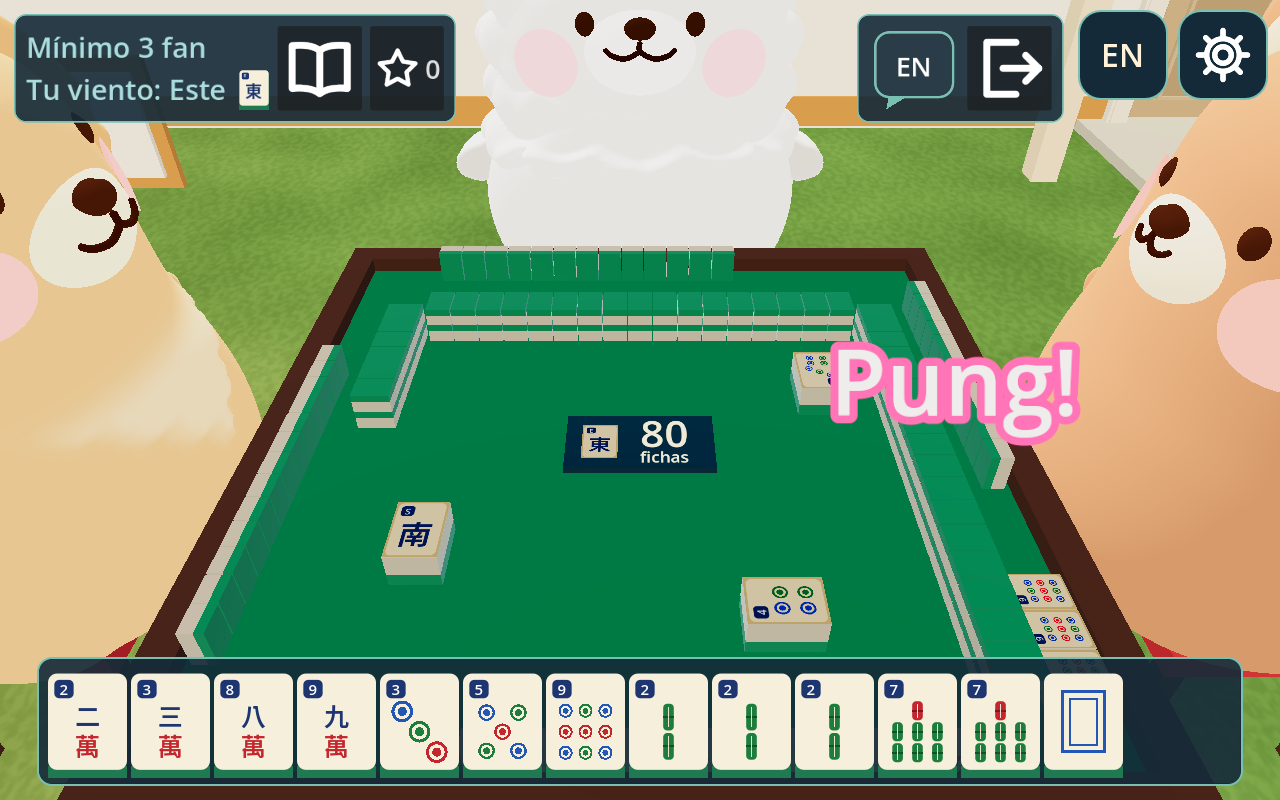
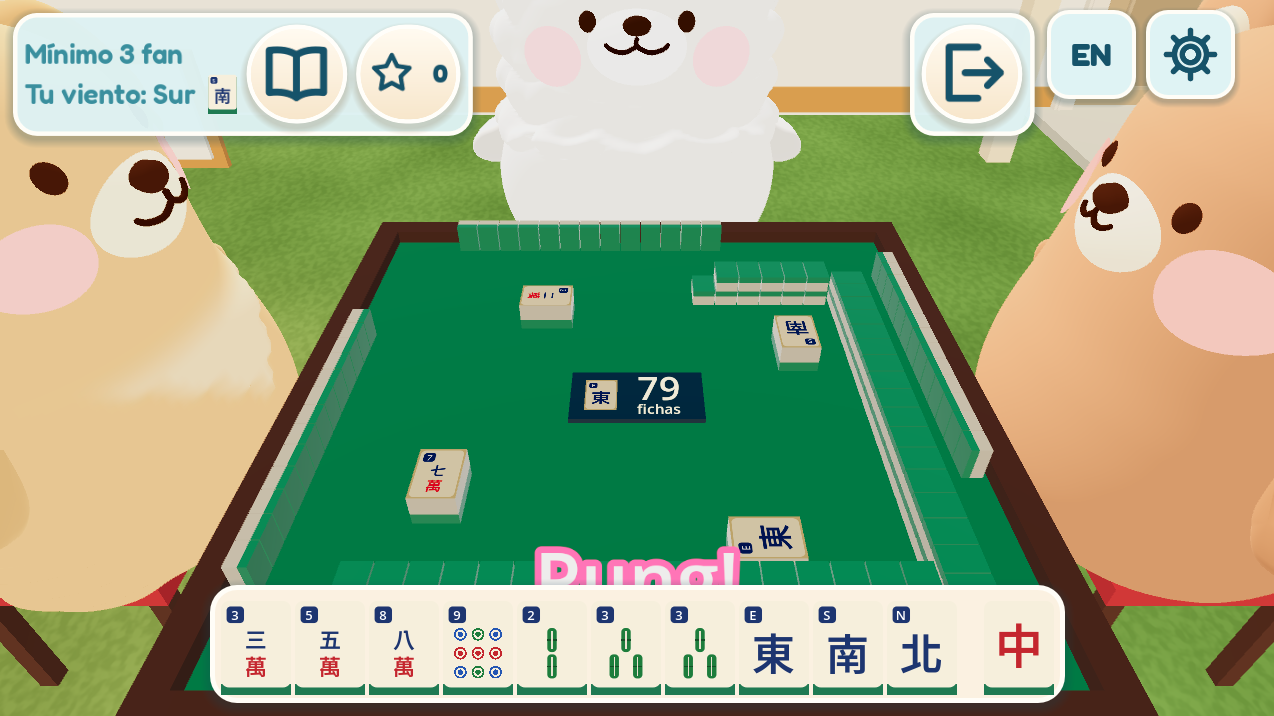
One EN button for every panel; Mahjong! still offered after a pung
- translate_button.gd: no panel shows its own EN bubble any more; holding the HUD's
  top-right EN (or L) switches every dialogue and minigame panel to the native language
  and back (the dialogue box and grammar card keep their own peek handler).
- Mahjong: a pung or chow of the tile that completes the hand still offers Mahjong!,
  scored as a win on that discard.
- Checks: one-language-toggle-20261123/verify.gd (13 panels, 0 failures); mahjong logic
  0 failures with a pung-then-win case; mahjong table 95 checks, 0 failures, views re-rendered.

diff --git a/BonAdventure/docs/guides/ARCHITECTURE_REVIEW_PART1.md b/BonAdventure/docs/guides/ARCHITECTURE_REVIEW_PART1.md
@@ -413,8 +413,13 @@ a Display Mode: it is never saved, does not change cards or practice recording, 
 button is hidden in Native mode. Since 17 Nov 2026 (user) it is the one language toggle for
 the dialogue box too: while it is held the box (`shop_order_panel.gd`) shows its lines in the
 native language (`translation_shown("")` marks the open question translated), and the box's
-own translate bubble is gone. The other minigame panels still have their own translate
-bubbles. The HUD ends a peek whose release was missed
+own translate bubble is gone. Since 23 Nov 2026 (user: "two EN buttons" on the mahjong table)
+every panel's bubble is hidden too: `translate_button.gd` stays invisible and, while EN is held,
+presses itself so its panel (mahjong, lessons, money, family, restaurant and menu book, flight,
+mystery, detective, warehouse, outfit picker) switches language, and again on release; a card
+opened while EN is held opens in the native language. Panels that follow `peek_changed`
+themselves (the dialogue box, the grammar card) set `follows_peek = false`. Check:
+`docs/evidence/one-language-toggle-20261123/verify.gd`. The HUD ends a peek whose release was missed
 (neither key nor button held).
 
 **World signs in every taught language (user decision, 9 Nov 2026).** `data/sign_translations.json`

diff --git a/BonAdventure/docs/game/README.md b/BonAdventure/docs/game/README.md
@@ -55,7 +55,7 @@ and wrong answers per word in the journal. **Levels** ([how games get harder](mi
 | [Feel the Clues](minigames.md#feel-the-clues) | Police evidence room | Yes | 6 Nov | 8 Nov (redesign) |
 | [Desk Dash](minigames.md#desk-dash) | School classroom | Chinese measure words only | 7 Nov | 23 Nov (card translated by holding the HUD's EN button) |
 | [Mystery Doors](minigames.md#mystery-doors) | Mystery House | Yes | 9 Nov | 10 Nov |
-| [Mahjong Club](minigames.md#mahjong-club) | Table in front of the home | No | 9 Nov | 16 Nov (camera shows Awoo, bigger pinwheel discards) |
+| [Mahjong Club](minigames.md#mahjong-club) | Table in front of the home | No | 9 Nov | 23 Nov (one EN button, top right; Mahjong! still offered after a pung) |
 | [Radar Patrol](minigames.md#radar-patrol) | Airport control tower | No (pastime) | 9 Nov | 15 Nov (easier taps) |
 | [Wire It Up!](minigames.md#wire-it-up) | Electrical box at the home | No (pastime) | 9 Nov | 9 Nov |
 | [Library Helper](minigames.md#library-helper) | Library | Yes | 13 Nov | 21 Nov (book close-up on pick-up, bigger right-shelf burst, thanks with a zoom on Rosa, results card, new cart after walking away) |

diff --git a/BonAdventure/docs/guides/MAHJONG.md b/BonAdventure/docs/guides/MAHJONG.md
@@ -181,6 +181,10 @@ Other rules:
 - **Kongs.** A kong (from a discard, four in hand, or adding to an exposed pung) draws a
   replacement from the back of the wall.
 - **Self-drawn win.** It is not possible straight after a claim.
+- **Mahjong after a pung or chow (user, 23 Nov 2026).** A player who pungs (or chows) the tile
+  that completes their hand still gets the Mahjong! button on their turn, beside discarding
+  (Keep playing). It scores as a win on that discard, paid by the discarder
+  (`mahjong_game.gd` `claimed_from`).
 - **End of the hand.** An empty wall is a draw. There is no dead wall and no robbing a kong.
 
 The NPC players (`mahjong_ai.gd`) are simple:

diff --git a/BonAdventure/docs/game/playing.md b/BonAdventure/docs/game/playing.md
@@ -98,7 +98,8 @@ Chinese shows pinyin under the text.
 - **Hold L** (or hold the language badge, top right) to see signs, building names, posters and
   the open word card in the native language for a moment. The word card has no button of its
   own for this (21 Nov).
-- The **translate bubble** in the dialogue box shows a line in the native language.
+- Holding the same badge also shows every dialogue box and minigame card in the native language
+  (one language button for the whole game since 23 Nov; no panel has its own EN bubble).
 
 [Languages and words](../guides/ARCHITECTURE_REVIEW_PART1.md#vocabulary-data-procedure)
 

diff --git a/BonAdventure/docs/game/minigames.md b/BonAdventure/docs/game/minigames.md
@@ -281,7 +281,8 @@ for three seconds. Six doors, then a treasure chest. Teaches colours and shapes.
 
 One hand of Hong Kong mahjong against three plush players, with the calls, winds and hand names
 in the language being learned. Two short lessons (Basics, Scoring) explain the rules. Not
-tracked.
+tracked. Mahjong! is still offered after punging the winning tile (23 Nov), and the only
+language button is the HUD's EN, top right (23 Nov).
 [Guide](../guides/MAHJONG.md)
 
 | Learning card | |
